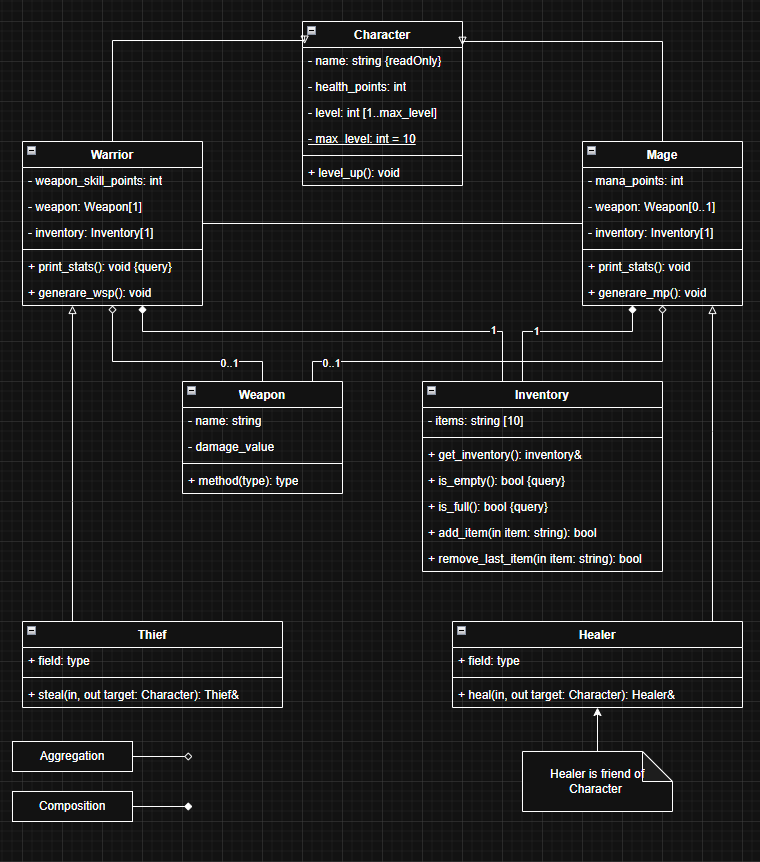
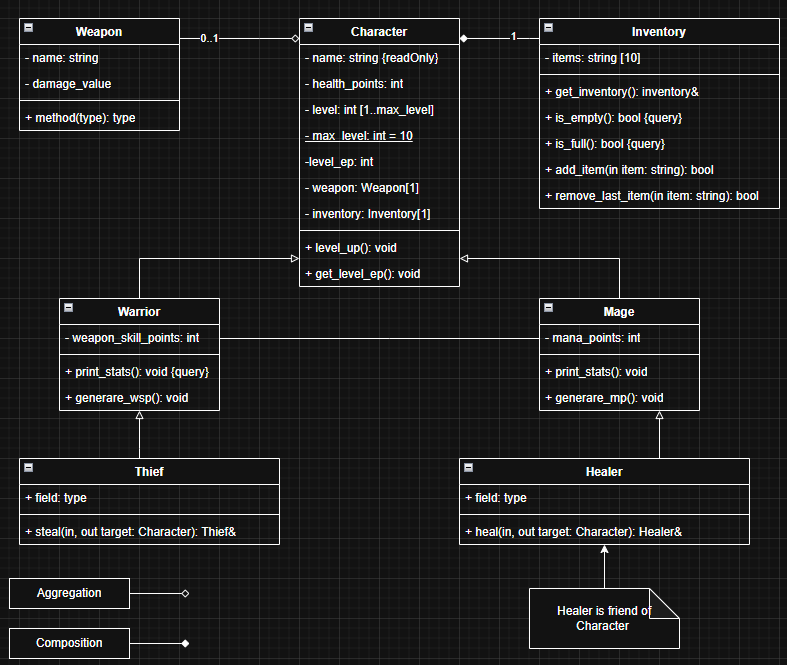
improve uml add hpp

diff --git a/courses/coding-in-C++/Lab_3/mySolution/section_4/src/character.cpp b/courses/coding-in-C++/Lab_3/mySolution/section_4/src/character.cpp
@@ -8,16 +8,6 @@
 
 #include "character.hpp"
 
-/**
- * @brief Increace the lecel by one step
- */
-void Character::level_up()
-{
-    if (level < MAX_LEVEL)
-    {
-        this->level += 1;
-    }
-}
 
 /**
  * @brief Print current stats
@@ -26,7 +16,57 @@ void Character::print_stats() const
 {
     using namespace std;
 
-    cout << "Name:  " << name << "\n";
-    cout << "Level: " << level << "\n";
-    cout << "HP: " << health_points << "\n";
+    cout << "Name:  " << this->name << "\n";
+    cout << "Level: " << this->level << "\n";
+    cout << "HP: " << this->health_points << "\n";
+    //weappon
+    //inventory
+}
+
+
+/**
+ * @brief Generates level ep 
+ * 
+ * Checks also whether is it possiple to get a level up
+ * 
+ * @param[in]   ep          Experience points to add
+ * 
+ * @return      pointer     Pointer to the character
+ */
+Character& Character::generate_level_ep(int ep)
+{
+    this->level_ep += ep;
+
+    if (level_ep > 50)
+    {
+        Character::level_up();
+    }
+
+    return *this;
+}
+
+
+/**
+ * @brief Increace the level by one step
+ */
+void Character::level_up()
+{
+    if (level < MAX_LEVEL)
+    {
+        this->level += 1;
+        this->level_ep -= 50;
+    }
+}
+
+
+/**
+ * @brief Attack a target
+ * 
+ * @param[in]   target      The target who is attacked
+ * 
+ * @return      pointer     Pointer to the character
+ */
+Character& Character::attack(Character& target)
+{
+    return *this;
 }

diff --git a/courses/coding-in-C++/Lab_3/mySolution/section_4/include/character.hpp b/courses/coding-in-C++/Lab_3/mySolution/section_4/include/character.hpp
@@ -16,22 +16,26 @@ class Weapon;
 class Character 
 {
 private:
-    std::string name;
-protected:
     int health_points;
+protected:
+    std::string name;
     int level;
     static constexpr int MAX_LEVEL = 10;
+    int level_ep;
     Weapon* weapon;
-    Inventory inventory;
+    //Inventory inventory;
+
+    void level_up();
 public:
-    Character(std::string name): name(name), health_points(100), level(1)
+    Character(std::string name): name(name), health_points(100), level(1), level_ep(0), weapon(nullptr)
     {};  // Constructor
-    ~Character() = default; // Destructor
+    virtual ~Character() = default; // Destructor
 
     virtual std::string get_type() const = 0;
     virtual void print_stats() const;
 
-    void level_up();
+    Character& generate_level_ep(int ep);
+    Character& attack(Character& target);
 };
 
 #endif

diff --git a/courses/coding-in-C++/Lab_3/mySolution/section_4/src/mage.cpp b/courses/coding-in-C++/Lab_3/mySolution/section_4/src/mage.cpp
@@ -1,0 +1,38 @@
+/*
+* File: mage.cpp
+* Description: Shot discription of the file.
+*/
+
+#include <iostream>
+#include <string>
+
+#include "mage.hpp"
+
+/**
+ * @brief Calculates the average temperature.
+ *
+ * Returns the arithmetic mean of all valid sensor values.
+ * Invalid sensor values are ignored.
+ *
+ * @param[in] values       Array of sensor values
+ * @param[in,out] value_count  Number of elements in values
+ * @return                 Average of valid values
+ */
+void Mage::print_stats() const
+{
+    using namespace std;
+
+    cout << "Class: " << get_type() << "\n";
+
+    Character::print_stats();
+
+    cout << "WSP: " << this->mana_points << "\n";
+}
+
+
+Mage& Mage::generate_mp(int points)
+{
+    this->mana_points += points;
+
+    return *this;
+}

diff --git a/courses/coding-in-C++/Lab_3/mySolution/section_4/include/thief.hpp b/courses/coding-in-C++/Lab_3/mySolution/section_4/include/thief.hpp
@@ -11,7 +11,7 @@
 
 #include <warrior.hpp>
 
-class Thief : protected Warrior
+class Thief : public Warrior
 {
 private:
 protected:
@@ -20,9 +20,18 @@ public:
     {};  // Constructor
     ~Thief() = default; // Destructor
 
-    std::string get_type() const override;
 
-    Thief& steal(Character target);
+    /**
+     * @brief Return the type of the character 
+     * 
+     * @return      string     Name of the type
+     */
+    std::string get_type() const override
+    {
+        return "Thief";
+    }
+
+    Thief& steal(Character& target);
 };
 
 #endif

diff --git a/courses/coding-in-C++/Lab_3/mySolution/section_4/include/healer.hpp b/courses/coding-in-C++/Lab_3/mySolution/section_4/include/healer.hpp
@@ -9,18 +9,23 @@
 #include <iostream>
 #include <string>
 
-#include <mage.hpp>
+#include "mage.hpp"
 
-class Healer : protected Mage
+class Healer : public Mage
 {
-    friend class Character;
 private:
 protected:
 public:
-    Healer();  // Constructor
+    Healer(std::string name): Mage(name)
+    {};  // Constructor
     ~Healer() = default; // Destructor
 
-    Healer& heal(Character target);
+    std::string get_type() const override
+    {
+        return "Healer";
+    }
+
+    Healer& heal(Character& target);
 };
 
 #endif

diff --git a/courses/coding-in-C++/Lab_3/mySolution/section_4/src/thief.cpp b/courses/coding-in-C++/Lab_3/mySolution/section_4/src/thief.cpp
@@ -1,0 +1,24 @@
+/*
+* File: thief.cpp
+* Description: Shot discription of the file.
+*/
+
+#include <iostream>
+
+#include "thief.hpp"
+
+/**
+ * @brief Calculates the average temperature.
+ *
+ * Returns the arithmetic mean of all valid sensor values.
+ * Invalid sensor values are ignored.
+ *
+ * @param[in] values       Array of sensor values
+ * @param[in,out] value_count  Number of elements in values
+ * @return                 Average of valid values
+ */
+Thief& Thief::steal(Character& target)
+{
+    return *this
+}
+

diff --git a/courses/coding-in-C++/Lab_3/mySolution/section_4/include/warrior.hpp b/courses/coding-in-C++/Lab_3/mySolution/section_4/include/warrior.hpp
@@ -21,17 +21,19 @@ public:
     {};  // Constructor
     ~Warrior() = default; // Destructor
 
+    /**
+     * @brief Return the type of the character 
+     * 
+     * @return      string     Name of the type
+     */
     std::string get_type() const override
     {
         return "Warrior";
     }
     
-    void generate_wsp(int points)
-    {
-        weapon_skill_points += points;
-    }
+    Warrior& generate_wsp(int points);
 
-    void print_stats() const;
+    void print_stats() const override;
 };
 
 #endif  

diff --git a/courses/coding-in-C++/Lab_3/mySolution/section_4/include/mage.hpp b/courses/coding-in-C++/Lab_3/mySolution/section_4/include/mage.hpp
@@ -11,17 +11,24 @@
 
 #include "character.hpp"
 
-class Mage :protected Character
+class Mage :public Character
 {
 private:
 protected:
     int mana_points;
 public:
-    Mage():mana_points(0)
+    Mage(std::string name): Character(name), mana_points(0)
     {};  // Constructor
     ~Mage() = default; // Destructor
 
-    void generate_mp();
+    Mage& generate_mp(int points);
+    
+    std::string get_type() const override
+    {
+        return "Mage";
+    }
+
+    void print_stats() const override;
 };
 
 #endif

diff --git a/courses/coding-in-C++/Lab_3/mySolution/section_4/src/warrior.cpp b/courses/coding-in-C++/Lab_3/mySolution/section_4/src/warrior.cpp
@@ -19,5 +19,20 @@ void Warrior::print_stats() const
 
     Character::print_stats();
 
-    cout << "WSP: " << weapon_skill_points << "\n";
+    cout << "WSP: " << this->weapon_skill_points << "\n";
+}
+
+
+/**
+ * @brief Generates weapon skill pints 
+ * 
+ * @param[in]   points      Experience points to add
+ * 
+ * @return      pointer     Pointer to the character
+ */
+Warrior& Warrior::generate_wsp(int points)
+{
+    this->weapon_skill_points += points;
+
+    return *this;
 }

diff --git a/courses/coding-in-C++/Lab_3/mySolution/section_4/include/inventory.hpp b/courses/coding-in-C++/Lab_3/mySolution/section_4/include/inventory.hpp
@@ -6,7 +6,6 @@
 #ifndef INVENTORY_H
 #define INVENTORY_H
 
-#include <iostream>
 #include <string>
 
 class Inventory 

diff --git a/courses/coding-in-C++/Lab_3/mySolution/section_4/include/weapon.hpp b/courses/coding-in-C++/Lab_3/mySolution/section_4/include/weapon.hpp
@@ -6,7 +6,6 @@
 #ifndef WEAPON_H
 #define WEAPON_H
 
-#include <iostream>
 #include <string>
 
 class Weapon 
